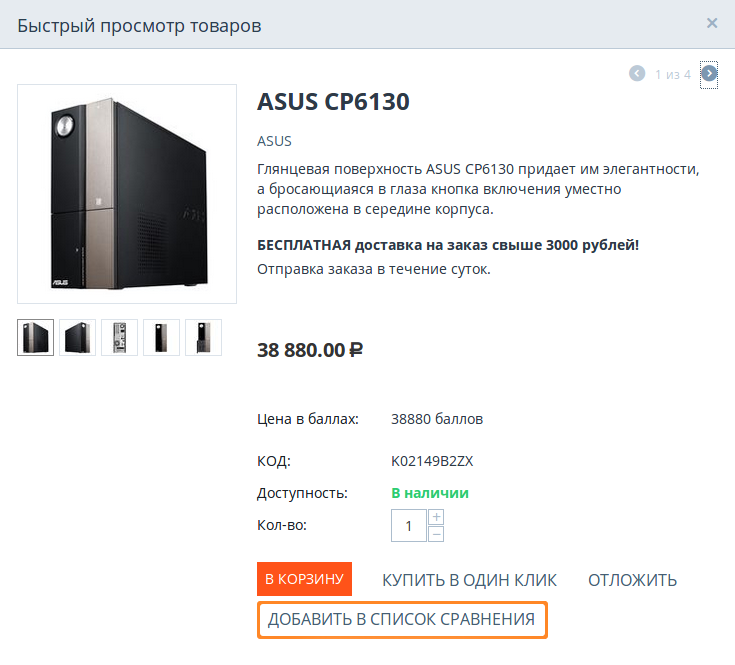
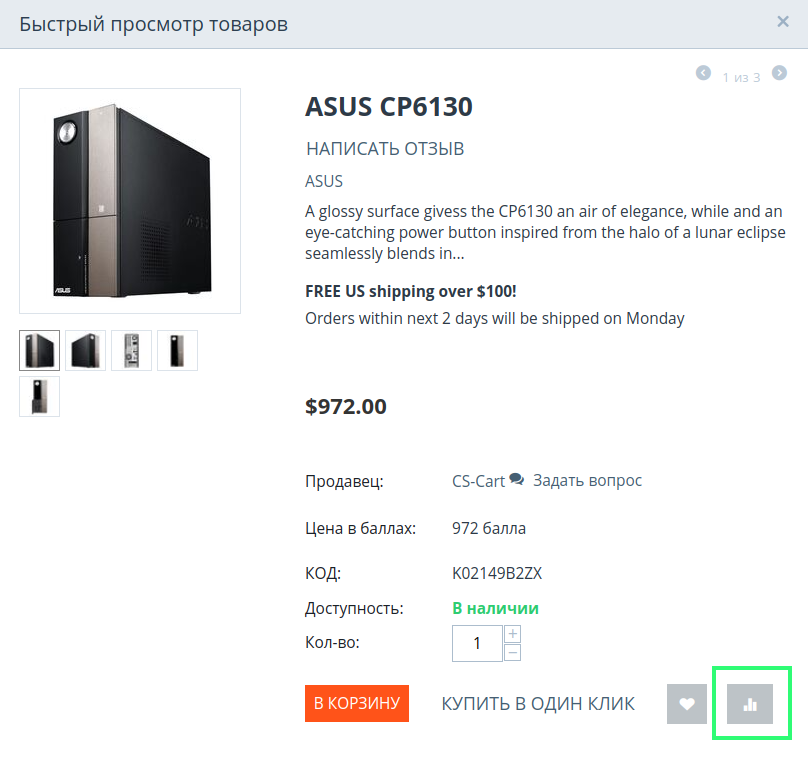
[~] Docs: Feature comparison article updated.

diff --git a/ru/user_guide/manage_products/features/feature_comparison.rst b/ru/user_guide/manage_products/features/feature_comparison.rst
@@ -17,7 +17,7 @@
 
 #. Убедитесь, что стоит галочка **Разрешить покупателям сравнивать товары**.
 
-   По умолчанию эта галочка уже проставлена. Это означает, что у каждого товара в магазине есть кнопка **Добавить в список сравнения**. Эта кнопка появится и на страницах товаров, и при во всплывающих окнах при быстром просмотре.
+   По умолчанию эта галочка уже проставлена. Это означает, что у каждого товара в магазине есть иконка **Добавить в список сравнения**. Она появится и на страницах товаров, и при во всплывающих окнах при быстром просмотре.
 
    .. fancybox:: img/add_to_comparison_list.png
        :alt: Если разрешено сравнение товаров, то покупатель сможет добавить любой товар в список сравнения.
